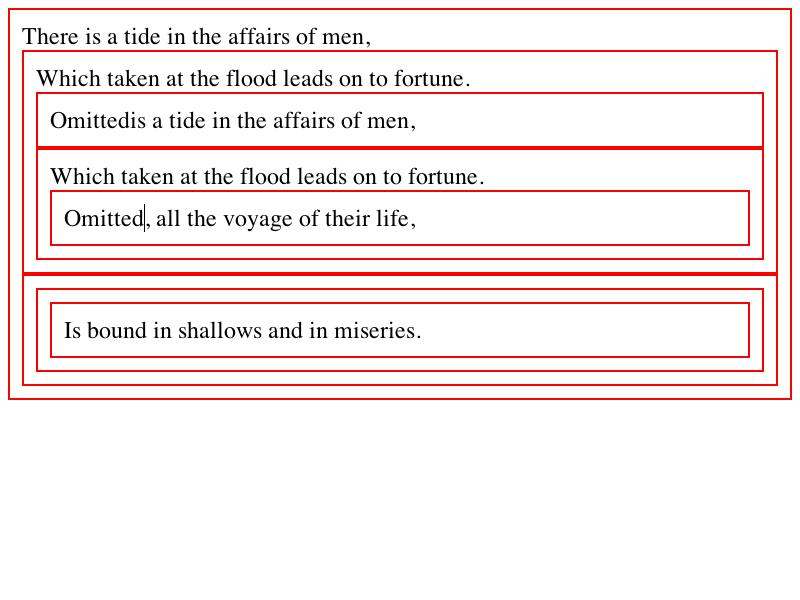
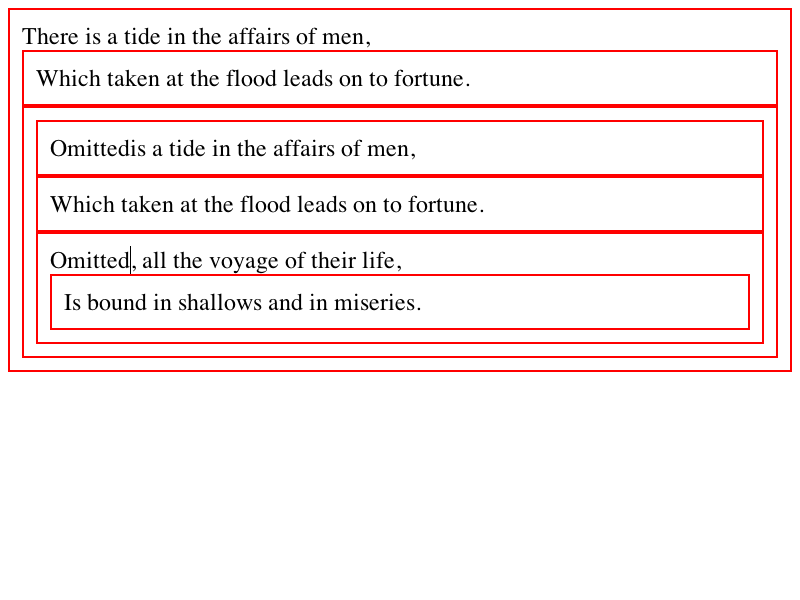
LayoutTests:
Reviewed by harrison

        <http://bugzilla.opendarwin.org/show_bug.cgi?id=8583>
        Moving paste code around and some small fixes

        Disabling until the bug it illustrates is fixed (8459):
        * editing/deleting/merge-whitespace-pre.html: Removed.
        * editing/deleting/merge-whitespace-pre.html-disabled: Added.

        This illustrates the need to do mergeEnd in the opposite direction:
        * editing/pasteboard/merge-end-borders-expected.checksum: Added.
        * editing/pasteboard/merge-end-borders-expected.png: Added.
        * editing/pasteboard/merge-end-borders-expected.txt: Added.
        * editing/pasteboard/merge-end-borders.html: Added.

        These illustrate the need to do the special case checks for list content and Mail
        blockquote content at the top of shouldMergeStart:
        * editing/pasteboard/merge-start-blockquote-expected.checksum: Added.
        * editing/pasteboard/merge-start-blockquote-expected.png: Added.
        * editing/pasteboard/merge-start-blockquote-expected.txt: Added.
        * editing/pasteboard/merge-start-blockquote.html: Added.
        * editing/pasteboard/merge-start-list-expected.checksum: Added.
        * editing/pasteboard/merge-start-list-expected.png: Added.
        * editing/pasteboard/merge-start-list-expected.txt: Added.
        * editing/pasteboard/merge-start-list.html: Added.

        In these tests, the caret was blown away because it was in content that
[…]

Changed region(s): [[0.0312, 0.15, 0.9688, 0.6], [0.0, 0.6, 1.0, 0.69]]

diff --git a/LayoutTests/editing/pasteboard/merge-end-borders.html b/LayoutTests/editing/pasteboard/merge-end-borders.html
@@ -1,0 +1,19 @@
+<p>This is a test for the merge that paste does of the last paragraph of the incoming fragment with content after the end of the selection being pasted into.  A fragment that ends in with paragraph surrounded by a blue border is pasted into a selection ending in a paragraph surrounded by a red border.  The red border should win.</p><p><b>The second paragraph should be surrounded by a red border before and after the test.</b></p> 
+
+<div id="test" contenteditable="true">First paragraph<div style="border: 1px solid red;">This text should be surrounded by a red border.</div></div>
+
+<script type="text/javascript" src="../editing.js"></script>
+<script>
+var s = window.getSelection();
+var e = document.getElementById("test");
+
+s.setPosition(e, 0);
+// Move to the last word in the first paragraph
+moveSelectionForwardByWordCommand();
+moveSelectionForwardByCharacterCommand();
+// Select from here to the end of the first word of the next paragraph.
+extendSelectionForwardByWordCommand();
+extendSelectionForwardByWordCommand();
+
+insertHTMLCommand("paragraph<div style='border: 1px solid blue;'>This</div>");
+</script>

diff --git a/LayoutTests/editing/pasteboard/merge-start-blockquote.html b/LayoutTests/editing/pasteboard/merge-start-blockquote.html
@@ -1,0 +1,19 @@
+<style>
+blockquote {
+    border: 1px solid blue;
+}
+</style>
+
+<p>This test makes sure that content inside a Mail blockquote in an incoming fragment isn't pulled out of the blockquote during paste.</p>
+<p><b>You should see 'bar' inside a blockquote (it will have a blue border around it if it is).</b></p>
+
+<div id="test" contenteditable="true"></div>
+
+<script>
+var s = window.getSelection();
+var e = document.getElementById("test");
+
+s.setPosition(e, 0);
+
+document.execCommand("InsertHTML", false , "<blockquote type='cite'>bar</blockquote>");
+</script>

diff --git a/LayoutTests/editing/pasteboard/merge-start-list.html b/LayoutTests/editing/pasteboard/merge-start-list.html
@@ -1,0 +1,13 @@
+<p>This test makes sure that content inside a list in an incoming fragment isn't pulled out of the list during paste.</p>
+<p><b>You should see 'bar' inside a list item.</b></p>
+
+<div id="test" contenteditable="true"></div>
+
+<script>
+var s = window.getSelection();
+var e = document.getElementById("test");
+
+s.setPosition(e, 0);
+
+document.execCommand("InsertHTML", false , "<ul><li>bar</li></ul>");
+</script>

diff --git a/WebCore/editing/ReplaceSelectionCommand.cpp b/WebCore/editing/ReplaceSelectionCommand.cpp
@@ -385,6 +385,7 @@ void ReplacementFragment::removeUnrenderedNodes(Node *holder)
         removeNode(it.current());
 }
 
+// FIXME: This counts two blocks for <span><div>foo</div></span>.  Get rid of uses of hasMoreThanOneBlock so that we can get rid of this function.
 int ReplacementFragment::renderedBlocks(Node *holder)
 {
     int count = 0;
@@ -452,17 +453,52 @@ RenderingInfo::RenderingInfo(PassRefPtr<CSSMutableStyleDeclaration> style, bool 
 {
 }
 
-ReplaceSelectionCommand::ReplaceSelectionCommand(Document *document, DocumentFragment *fragment, bool selectReplacement, bool smartReplace, bool matchStyle) 
+ReplaceSelectionCommand::ReplaceSelectionCommand(Document *document, DocumentFragment *fragment, bool selectReplacement, bool smartReplace, bool matchStyle, bool forceMergeStart) 
     : CompositeEditCommand(document),
       m_selectReplacement(selectReplacement), 
       m_smartReplace(smartReplace),
       m_matchStyle(matchStyle),
-      m_documentFragment(fragment)
+      m_documentFragment(fragment),
+      m_forceMergeStart(forceMergeStart)
 {
 }
 
 ReplaceSelectionCommand::~ReplaceSelectionCommand()
 {
+}
+
+// FIXME: This will soon operate on the fragment after it's been inserted so that it can check renderers and create visible positions.
+bool ReplaceSelectionCommand::shouldMergeStart(const ReplacementFragment& incomingFragment, const Selection& destinationSelection)
+{
+    if (m_forceMergeStart)
+        return true;
+        
+    VisiblePosition visibleStart = destinationSelection.visibleStart();
+    Node* startBlock = destinationSelection.start().node()->enclosingBlockFlowElement();
+
+    // <rdar://problem/4013642> Copied quoted word does not paste as a quote if pasted at the start of a line    
+    if (isStartOfParagraph(visibleStart) && isMailBlockquote(incomingFragment.firstChild()))
+        return false;
+    
+    // Don't pull content out of a list item.
+    // FIXMEs: Do this check in shouldMergeEnd too.  Don't pull content out of a table cell either.
+    if (enclosingList(incomingFragment.mergeStartNode()))
+        return false;
+    
+    // Merge if this is an empty editable subtree, to prevent an extra level of block nesting.
+    if (startBlock == startBlock->rootEditableElement() && isStartOfBlock(visibleStart) && isEndOfBlock(visibleStart))
+        return true;
+    
+    if (!incomingFragment.hasInterchangeNewlineAtStart() && 
+        (!isStartOfParagraph(visibleStart) || !incomingFragment.hasInterchangeNewlineAtEnd() && !incomingFragment.hasMoreThanOneBlock()))
+       return true;
+    
+    return false;
+}
+
+bool ReplaceSelectionCommand::shouldMergeEnd(const ReplacementFragment& incomingFragment, const Selection& destinationSelection)
+{
+    return !incomingFragment.hasInterchangeNewlineAtEnd() && !isEndOfParagraph(destinationSelection.visibleEnd());
 }
 
 void ReplaceSelectionCommand::doApply()
@@ -486,44 +522,13 @@ void ReplaceSelectionCommand::doApply()
     VisiblePosition visibleStart(selection.start(), selection.affinity());
     VisiblePosition visibleEnd(selection.end(), selection.affinity());
     bool startAtStartOfBlock = isStartOfBlock(visibleStart);
-    bool startAtEndOfBlock = isEndOfBlock(visibleStart);
-    Node *startBlock = selection.start().node()->enclosingBlockFlowElement();
+    Node* startBlock = selection.start().node()->enclosingBlockFlowElement();
 
-    // decide whether to later merge content into the startBlock
-    bool mergeStart = false;
-    if (startBlock == startBlock->rootEditableElement() && startAtStartOfBlock && startAtEndOfBlock) {
-        // empty editable subtree, need to mergeStart so that fragment ends up
-        // merged into the editable subtree rather than adding more levels of block nesting
-        mergeStart = true;
-    } else {
-        // merge if current selection starts inside a paragraph, or there is only one block and no interchange newline to add
-        mergeStart = !fragment.hasInterchangeNewlineAtStart() && 
-            (!isStartOfParagraph(visibleStart) || (!fragment.hasInterchangeNewlineAtEnd() && !fragment.hasMoreThanOneBlock()));
-        
-        // This is a workaround for this bug:
-        // <rdar://problem/4013642> Copied quoted word does not paste as a quote if pasted at the start of a line
-        // We need more powerful logic in this whole mergeStart code for this case to come out right without
-        // breaking other cases.
-        if (isStartOfParagraph(visibleStart) && isMailBlockquote(fragment.firstChild()))
-            mergeStart = false;
-        
-        // prevent first list item from getting merged into target, thereby pulled out of list
-        // NOTE: ideally, we'd check for "first visible position in list" here,
-        // but we cannot.  Fragments do not have any visible positions.  Instead, we
-        // assume that the mergeStartNode() contains the first visible content to paste.
-        // Any better ideas?
-        if (mergeStart) {
-            for (Node *n = fragment.mergeStartNode(); n; n = n->parentNode()) {
-                if (isListElement(n)) {
-                    mergeStart = false;
-                    break;
-                }
-            }
-        }
-    }
+    // Whether the first paragraph of the incoming fragment should be merged with content from visibleStart to startOfParagraph(visibleStart).
+    bool mergeStart = shouldMergeStart(fragment, selection);
     
     // Whether the last paragraph of the incoming fragment should be merged with content from visibleEnd to endOfParagraph(visibleEnd).
-    bool mergeEnd = !isEndOfParagraph(visibleEnd) && !fragment.hasInterchangeNewlineAtEnd();
+    bool mergeEnd = shouldMergeEnd(fragment, selection);
 
     Position startPos = selection.start();
     
@@ -532,7 +537,7 @@ void ReplaceSelectionCommand::doApply()
         bool mergeBlocksAfterDelete = !(fragment.hasInterchangeNewlineAtStart() || fragment.hasInterchangeNewlineAtEnd() || fragment.hasMoreThanOneBlock());
         deleteSelection(false, mergeBlocksAfterDelete);
         updateLayout();
-        visibleStart = VisiblePosition(endingSelection().start(), VP_DEFAULT_AFFINITY);
+        visibleStart = endingSelection().visibleStart();
         if (fragment.hasInterchangeNewlineAtStart()) {
             if (isEndOfParagraph(visibleStart) && !isStartOfParagraph(visibleStart)) {
                 if (!isEndOfDocument(visibleStart))
@@ -568,7 +573,7 @@ void ReplaceSelectionCommand::doApply()
         }
         startPos = endingSelection().start();
     }
-
+    
     if (startAtStartOfBlock && startBlock->inDocument())
         startPos = Position(startBlock, 0);
 
@@ -786,21 +791,20 @@ void ReplaceSelectionCommand::doApply()
                 }
             }
         }
-        
-        if (mergeEnd) {
-            // FIXME: This move should happen in the opposite direction, because we'd rather preserve the styles on the block containing the 
-            // paragraph that was already in the document than preserve block styles from the incoming fragment. 
-            VisiblePosition afterInsertedContent(Position(m_lastNodeInserted->parentNode(), m_lastNodeInserted->nodeIndex() + 1));
-            if (isEndOfParagraph(afterInsertedContent)) {
-                VisiblePosition startOfParagraphToMove = afterInsertedContent.next();
-                VisiblePosition endOfParagraphToMove = endOfParagraph(startOfParagraphToMove);
-                moveParagraph(startOfParagraphToMove, endOfParagraphToMove, afterInsertedContent);
-            }
-        }
     }
     
     if (!m_matchStyle)
         fixupNodeStyles(fragment.nodes(), fragment.renderingInfo());
+    
+    if (mergeEnd) {
+        VisiblePosition afterInsertedContent(positionAfterNode(m_lastNodeInserted.get()));
+        if (isEndOfParagraph(afterInsertedContent)) {
+            VisiblePosition startOfParagraphToMove = startOfParagraph(afterInsertedContent);
+            VisiblePosition destination = afterInsertedContent.next();
+            moveParagraph(startOfParagraphToMove, afterInsertedContent, destination);
+        }
+    }
+    
     completeHTMLReplacement(lastPositionToSelect);
     
     // step 5 : mop up

diff --git a/WebCore/editing/ReplaceSelectionCommand.h b/WebCore/editing/ReplaceSelectionCommand.h
@@ -113,7 +113,7 @@ private:
 class ReplaceSelectionCommand : public CompositeEditCommand
 {
 public:
-    ReplaceSelectionCommand(Document *document, DocumentFragment *fragment, bool selectReplacement=true, bool smartReplace=false, bool matchStyle=false);
+    ReplaceSelectionCommand(Document *document, DocumentFragment *fragment, bool selectReplacement=true, bool smartReplace=false, bool matchStyle=false, bool forceMergeStart=false);
     virtual ~ReplaceSelectionCommand();
     
     virtual void doApply();
@@ -129,6 +129,9 @@ private:
     void updateNodesInserted(Node *);
     void fixupNodeStyles(const NodeVector&, const RenderingInfoMap&);
     void removeLinePlaceholderIfNeeded(Node *);
+    
+    bool shouldMergeStart(const ReplacementFragment&, const Selection&);
+    bool shouldMergeEnd(const ReplacementFragment&, const Selection&);
 
     RefPtr<Node> m_firstNodeInserted;
     RefPtr<Node> m_lastNodeInserted;
@@ -138,6 +141,7 @@ private:
     bool m_smartReplace;
     bool m_matchStyle;
     RefPtr<DocumentFragment> m_documentFragment;
+    bool m_forceMergeStart;
 };
 
 } // namespace WebCore

diff --git a/WebCore/editing/htmlediting.cpp b/WebCore/editing/htmlediting.cpp
@@ -373,6 +373,17 @@ bool isListElement(Node *n)
     return (n && (n->hasTagName(ulTag) || n->hasTagName(olTag) || n->hasTagName(dlTag)));
 }
 
+Node* enclosingList(Node* node)
+{
+    if (!node)
+        return 0;
+        
+    for (Node* n = node->parentNode(); n; n = n->parentNode())
+        if (n->hasTagName(ulTag) || n->hasTagName(olTag))
+            return n;
+    return 0;
+}
+
 Node *enclosingListChild (Node *node)
 {
     // check not just for li elements per se, but also
@@ -550,7 +561,7 @@ Node *nearestMailBlockquote(const Node *node)
 
 bool isMailBlockquote(const Node *node)
 {
-    if (!node || !node->renderer() || !node->isElementNode() && !node->hasTagName(blockquoteTag))
+    if (!node || !node->isElementNode() && !node->hasTagName(blockquoteTag))
         return false;
         
     return static_cast<const Element *>(node)->getAttribute("type") == "cite";

diff --git a/WebCore/editing/Selection.h b/WebCore/editing/Selection.h
@@ -27,6 +27,7 @@
 #define KHTML_EDITING_SELECTION_H
 
 #include "Position.h"
+#include "VisiblePosition.h"
 #include "TextGranularity.h"
 
 namespace WebCore {
@@ -57,6 +58,9 @@ public:
     Position extent() const { return m_extent; }
     Position start() const { return m_start; }
     Position end() const { return m_end; }
+    
+    VisiblePosition visibleStart() const { return VisiblePosition(m_start, isRange() ? DOWNSTREAM : affinity()); }
+    VisiblePosition visibleEnd() const { return VisiblePosition(m_end, isRange() ? UPSTREAM : affinity()); }
 
     bool isNone() const { return state() == NONE; }
     bool isCaret() const { return state() == CARET; }

diff --git a/WebCore/editing/CompositeEditCommand.cpp b/WebCore/editing/CompositeEditCommand.cpp
@@ -709,7 +709,7 @@ void CompositeEditCommand::moveParagraph(const VisiblePosition& startOfParagraph
         insertNodeAt(createBreakElement(document()).get(), beforeParagraph.deepEquivalent().node(), beforeParagraph.deepEquivalent().offset());
     
     setEndingSelection(destination);
-    EditCommandPtr cmd(new ReplaceSelectionCommand(document(), fragment.get(), false));
+    EditCommandPtr cmd(new ReplaceSelectionCommand(document(), fragment.get(), false, false, false, true));
     applyCommandToComposite(cmd);
 }
 

diff --git a/WebCore/editing/htmlediting.h b/WebCore/editing/htmlediting.h
@@ -82,6 +82,7 @@ Position positionAfterContainingSpecialElement(const Position&, Node** containin
 Position positionOutsideContainingSpecialElement(const Position&, Node** containingSpecialElement=0);
 
 bool isListElement(Node* n);
+Node* enclosingList(Node* node);
 Node *enclosingListChild(Node *n);
 bool isTableElement(Node* n);
 bool isFirstVisiblePositionAfterTableElement(const Position&);
